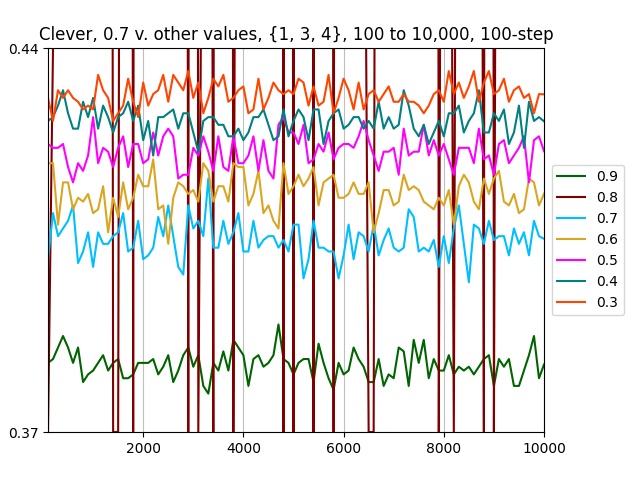
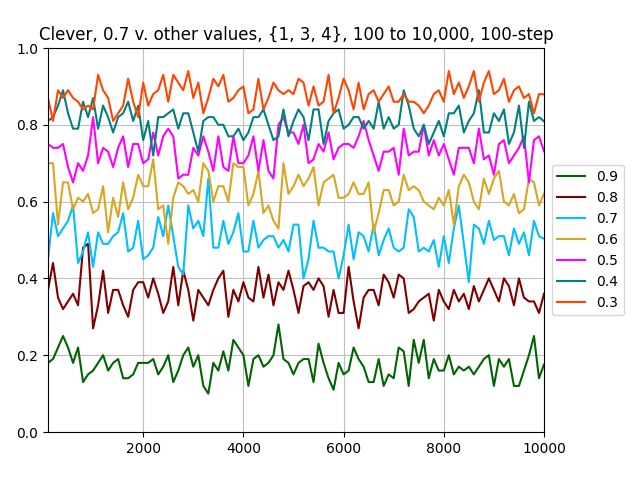
Finally fixed bad graphs

diff --git a/graphing.py b/graphing.py
@@ -4,7 +4,8 @@ import pandas as pd
 dfs = [
   pd.read_csv(f"./csvs/{game}.csv", header=None) for game in [
     "Clever {1, 2, 3}", "Random {1, 2, 3}", 
-    "Clever {1, 3, 4}", "Random {1, 3, 4}"]
+    "Clever {1, 3, 4}", "Random {1, 3, 4}"
+  ]
 ]
 
 """
@@ -20,23 +21,23 @@ if __name__ == "__main__":
             'goldenrod', 'magenta', 'teal', 'orangered']
   for frame in dfs:
     for x in range(7):
-      if x == 1 or x == 2:
-        plt.gca().set_xlim([100, 10000])
-        plt.gca().set_ylim([0.0, 1.0])
-        plt.grid(axis='both', color='0.75')
-        df = frame.iloc[:104, 8*x:8*(x+1)]
-        #print(df.head())
-        title = df.iloc[0, 0]
-        print(title)
-        for i in range(1, 8):
-          col = df.iloc[3:103, i].to_list()
-          print(col[0:20])
-          plt.plot(xax, col, color=colors[i])
-          #avg = df.iloc[103, i]
-          #plt.axhline(avg, color=colors[i], linestyle='--')
-        plt.title(title)
-        plt.legend(['0.9', '0.8', '0.7', '0.6', '0.5', '0.4', '0.3'], 
-                  bbox_to_anchor = (1.175, 0.5), loc='center right')
-        plt.subplots_adjust(left=0.075, right=0.85, top=0.9, bottom=0.1)
-        plt.savefig(f"graphs/{title}.png")
-        plt.clf()
+      #if x == 0:# or x == 2:
+      plt.gca().set_xlim([100, 10000])
+      plt.gca().set_ylim([0.0, 1.0])
+      plt.grid(axis='both', color='0.75')
+      df = frame.iloc[:104, 8*x:8*(x+1)]
+      #print(df.head())
+      title = df.iloc[0, 0]
+      print(title)
+      for i in range(1, 8):
+        col = df.iloc[3:103, i].astype("float").to_list()
+        #print(col[0:20])
+        plt.plot(xax, col, color=colors[i])
+        #avg = df.iloc[103, i]
+        #plt.axhline(avg, color=colors[i], linestyle='--')
+      plt.title(title)
+      plt.legend(['0.9', '0.8', '0.7', '0.6', '0.5', '0.4', '0.3'], 
+                bbox_to_anchor = (1.175, 0.5), loc='center right')
+      plt.subplots_adjust(left=0.075, right=0.85, top=0.9, bottom=0.1)
+      plt.savefig(f"graphs/{title}.png")
+      plt.clf()
